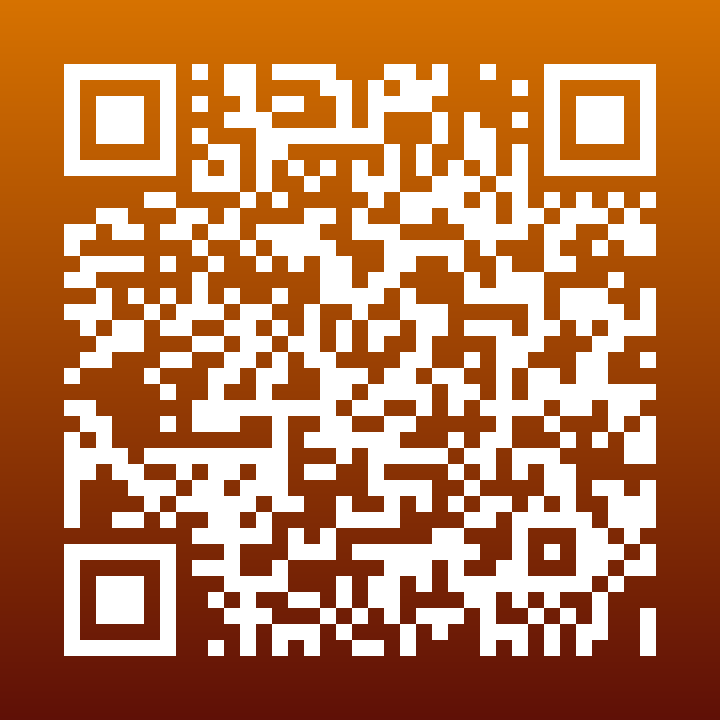
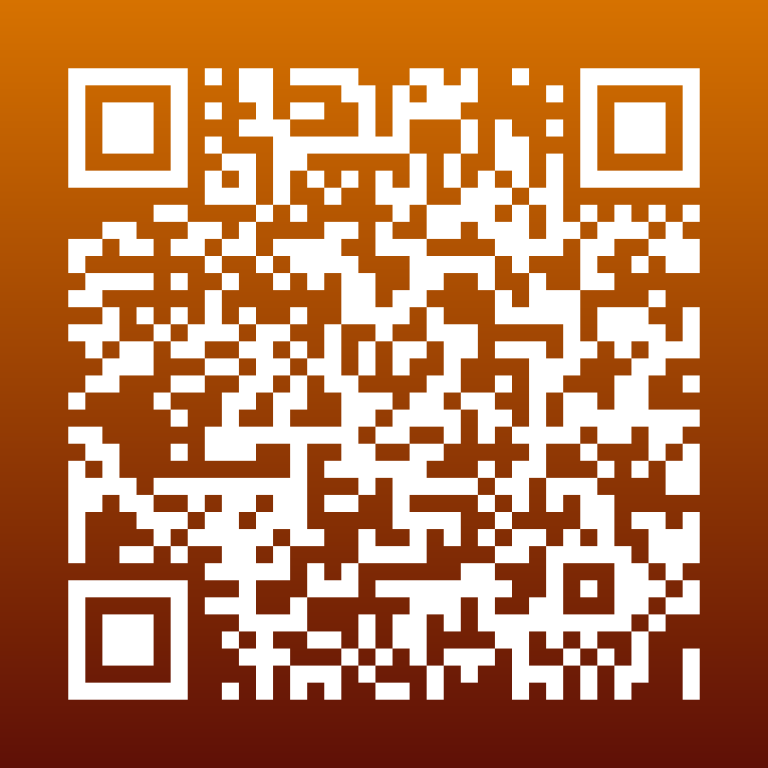
add sizing to oksvg

diff --git a/oksvg.go b/oksvg.go
@@ -2,6 +2,7 @@ package main
 
 import (
 	"bytes"
+	"fmt"
 	"github.com/srwiley/oksvg"
 	"github.com/srwiley/rasterx"
 	"image"
@@ -9,6 +10,7 @@ import (
 )
 
 type OkSVG struct {
+	width int
 }
 
 func (v OkSVG) Run(inputFilename string, data []byte) ([]byte, error) {
@@ -17,11 +19,19 @@ func (v OkSVG) Run(inputFilename string, data []byte) ([]byte, error) {
 	if err != nil {
 		return nil, err
 	}
-	w := int(icon.ViewBox.W)
-	h := int(icon.ViewBox.H)
-	icon.SetTarget(0, 0, float64(w), float64(h))
-	rgba := image.NewRGBA(image.Rect(0, 0, w, h))
-	icon.Draw(rasterx.NewDasher(w, h, rasterx.NewScannerGV(w, h, rgba, rgba.Bounds())), 1)
+	w := icon.ViewBox.W
+	h := icon.ViewBox.H
+	if w <= 0 || h <= 0 {
+		return nil, fmt.Errorf("parsed svg resulted in a viewBox with 0 width or height")
+	}
+	ratio := h / w
+
+	width := v.width
+	height := int(float64(width) * ratio)
+
+	icon.SetTarget(0, 0, float64(width), float64(height))
+	rgba := image.NewRGBA(image.Rect(0, 0, width, height))
+	icon.Draw(rasterx.NewDasher(width, height, rasterx.NewScannerGV(width, height, rgba, rgba.Bounds())), 1)
 
 	wBuf := bytes.NewBuffer(nil)
 	err = png.Encode(wBuf, rgba)

diff --git a/main.go b/main.go
@@ -27,7 +27,7 @@ func main() {
 	}
 
 	svgTesters := map[string]SVGTester{
-		"oksvg":       OkSVG{},
+		"oksvg":       OkSVG{width: 768},
 		"imagemagick": ImageMagick{},
 		"resvg":       ReSVG{},
 		"cons2p":      ConS2P{},
